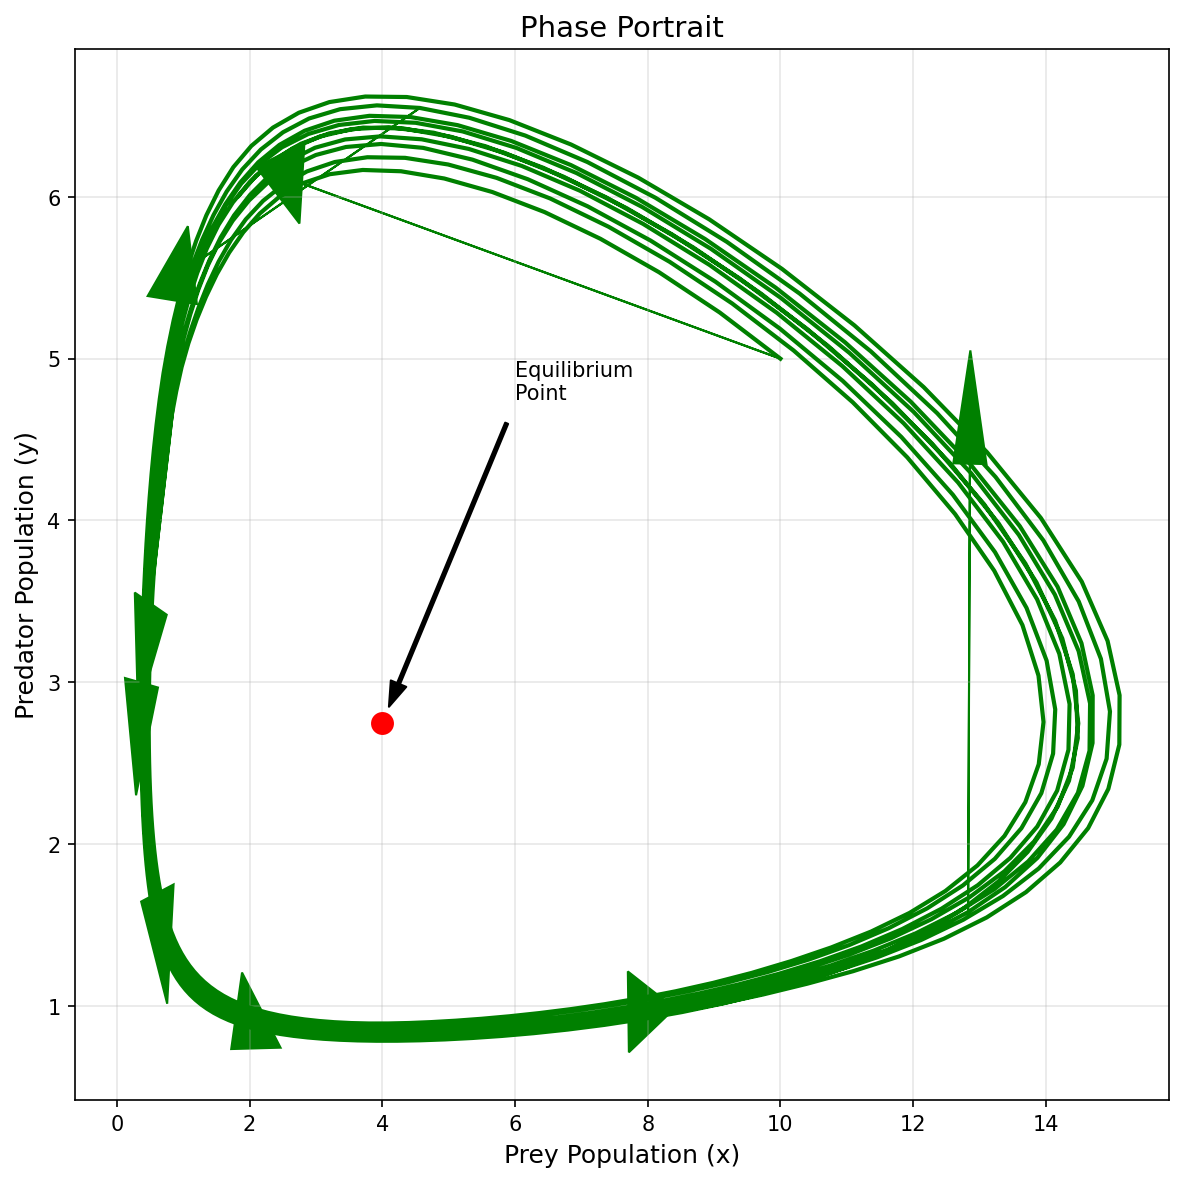
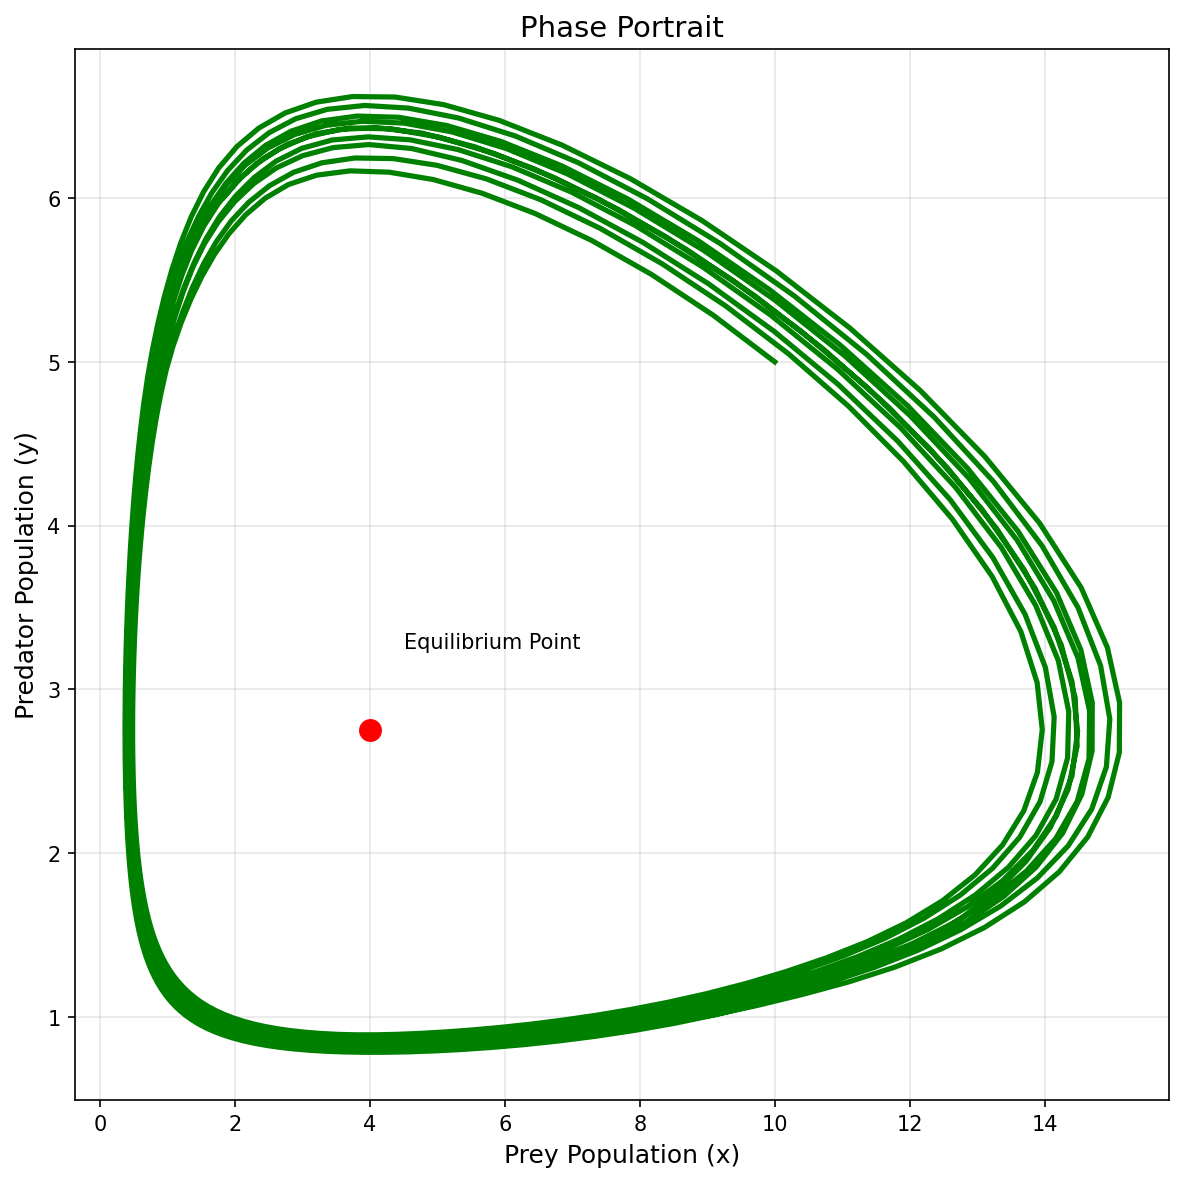
Remove arrows from Phase Portrait
- Removed directional arrows from the Phase Portrait plot
- Changed the arrow-based annotation to simple text label
- Made the phase plot line slightly thicker for better visibility
- Simplified the visualization for cleaner presentation

🤖 Generated with [Claude Code](https://claude.ai/code)

diff --git a/lotka_volterra.py b/lotka_volterra.py
@@ -168,13 +168,7 @@ def generate_time_plot(t, x, y, save_path='population_time_plot.png'):
 def generate_phase_portrait(x, y, save_path='phase_portrait.png'):
     """Generate and save the phase portrait plot"""
     plt.figure(figsize=(8, 8))
-    plt.plot(x, y, 'g-', linewidth=2)
-    
-    # Add arrow to show direction
-    arrows_idx = np.linspace(0, len(x)-100, 8, dtype=int)
-    for i in arrows_idx:
-        plt.arrow(x[i], y[i], x[i+10]-x[i], y[i+10]-y[i], 
-                  head_width=0.5, head_length=0.7, fc='g', ec='g')
+    plt.plot(x, y, 'g-', linewidth=2.5)
     
     plt.grid(True, alpha=0.3)
     plt.xlabel('Prey Population (x)', fontsize=12)
@@ -185,10 +179,7 @@ def generate_phase_portrait(x, y, save_path='phase_portrait.png'):
     eq_x = 4  # gamma/delta
     eq_y = 2.75  # alpha/beta
     plt.scatter([eq_x], [eq_y], color='red', s=100, zorder=5)
-    plt.annotate('Equilibrium\nPoint', 
-                 xy=(eq_x, eq_y),
-                 xytext=(eq_x+2, eq_y+2),
-                 arrowprops=dict(facecolor='black', shrink=0.05, width=1.5, headwidth=8))
+    plt.text(eq_x+0.5, eq_y+0.5, 'Equilibrium Point', fontsize=10)
     
     plt.tight_layout()
     plt.savefig(save_path, dpi=150, bbox_inches='tight')
